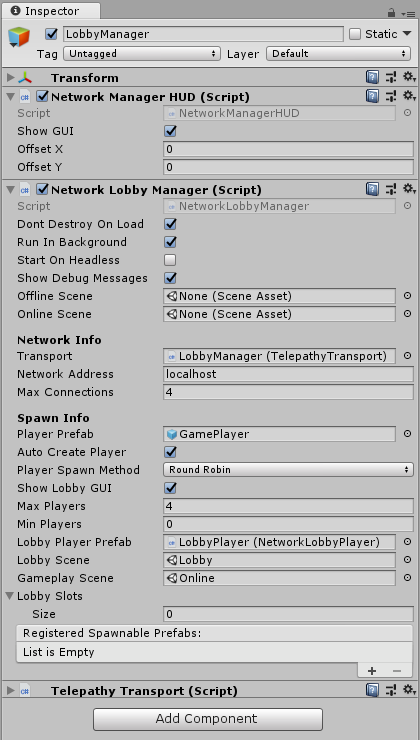
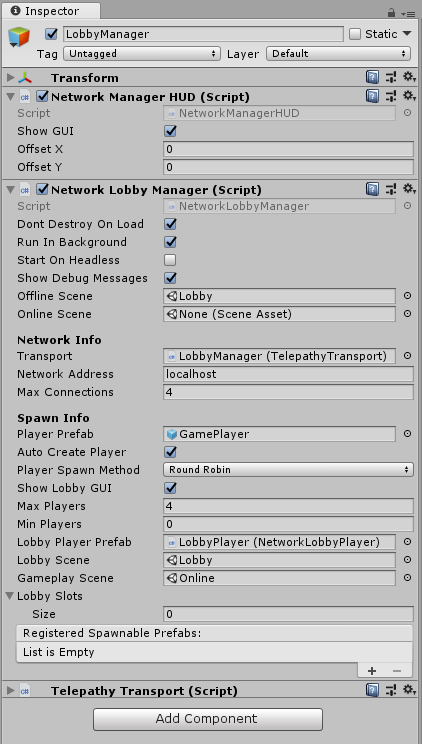
Updated doc and image about Offline Scene

Changed region(s): [[0.0, 0.0, 1.0, 1.0]]

diff --git a/docs/Components/NetworkLobbyManager.md b/docs/Components/NetworkLobbyManager.md
@@ -8,11 +8,11 @@ In the Lobby Scene, add an empty game object called Lobby Manager and give it a 
 
 Also add a NetworkManagerHUD component to Lobby Manager.
 
-Save the Lobby Scene, and then drag it to the Lobby Scene field in Lobby Manager.
+Save the Lobby Scene, and then drag it to **both** the Offline Scene field and the Lobby Scene field in Lobby Manager.
 
 Drag your Game Scene to the Gameplay Scene field in Lobby Manager.
 
-NOTE: Offline and Online Scene are separate from Lobby and Gameplay Scene...do not assign anything to Offline or Online Scene!
+NOTE: Offline and Online Scene are separate from Lobby and Gameplay Scene... **do not** assign anything to Online Scene or the Lobby will be bypassed!
 
 Create an empty game object in the scene called LobbyPlayer and give it a NetworkLobbyPlayer component.  A Network Identity component will be added automatically.  In the Network Identity component, check the box for Local Player Authority.
 
